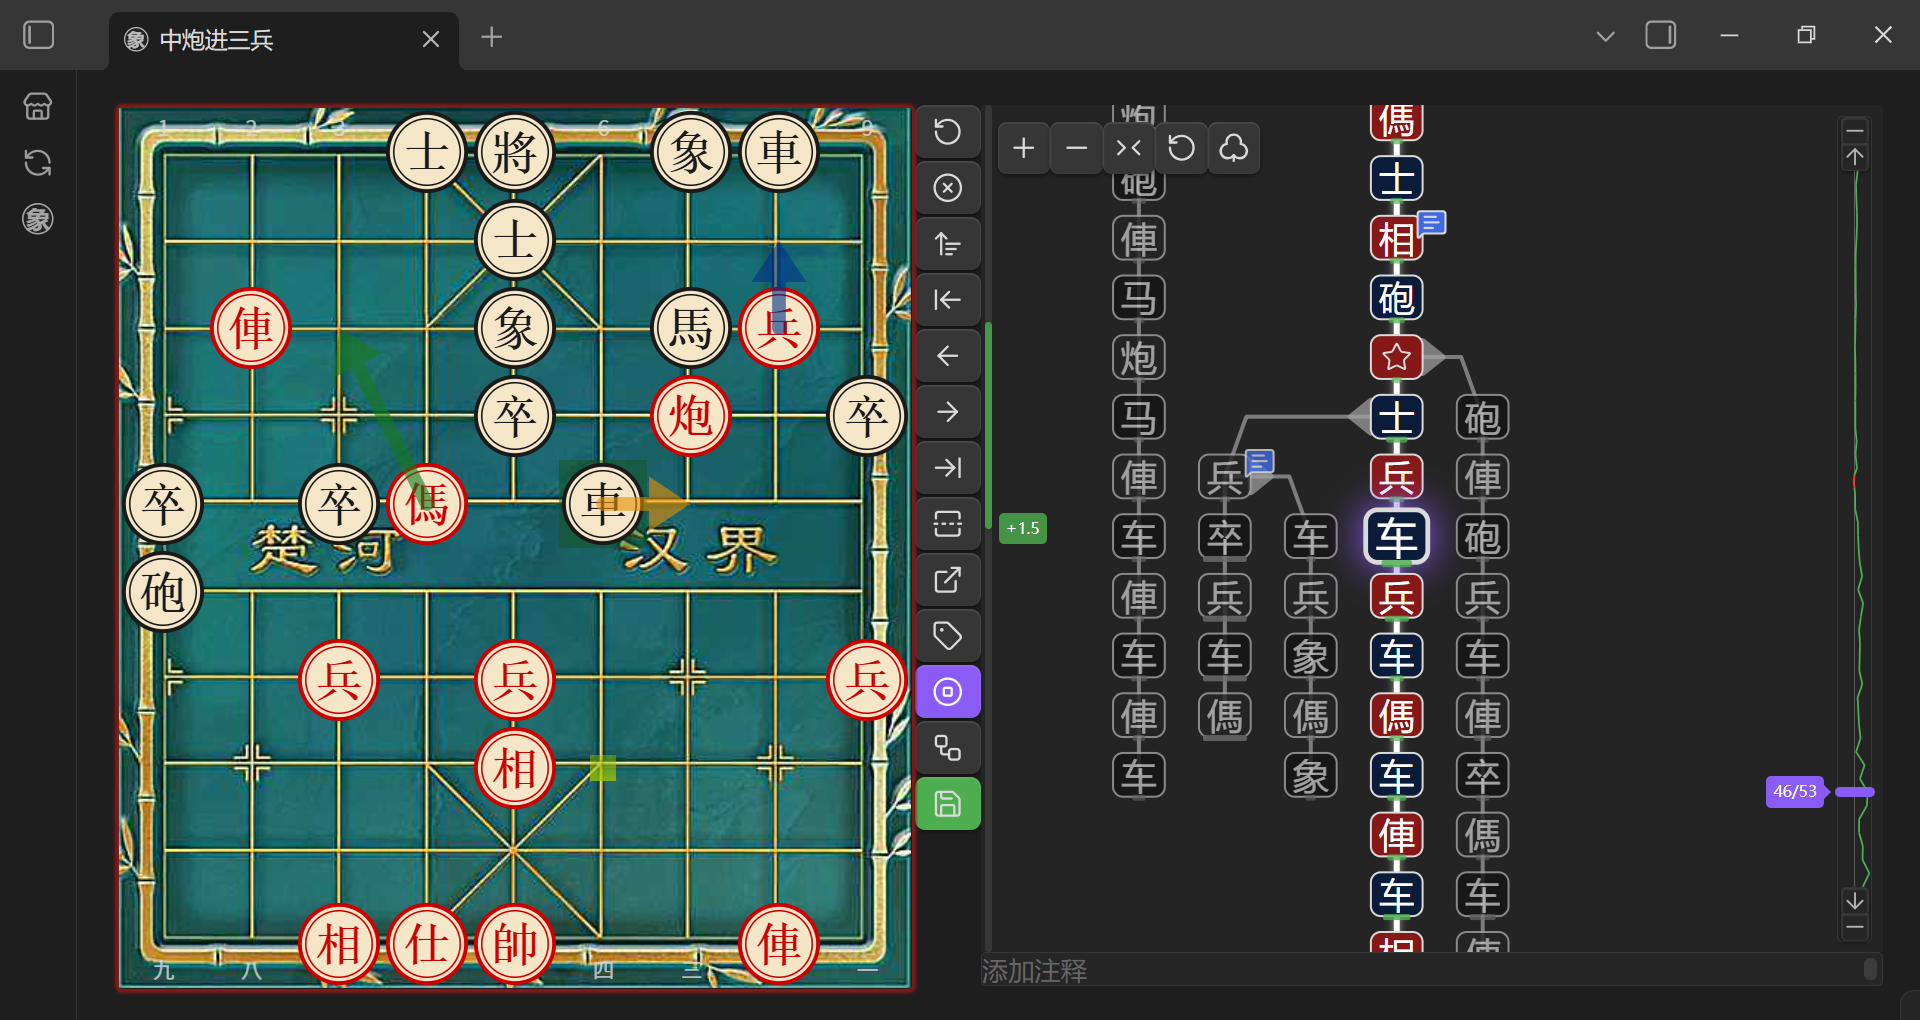
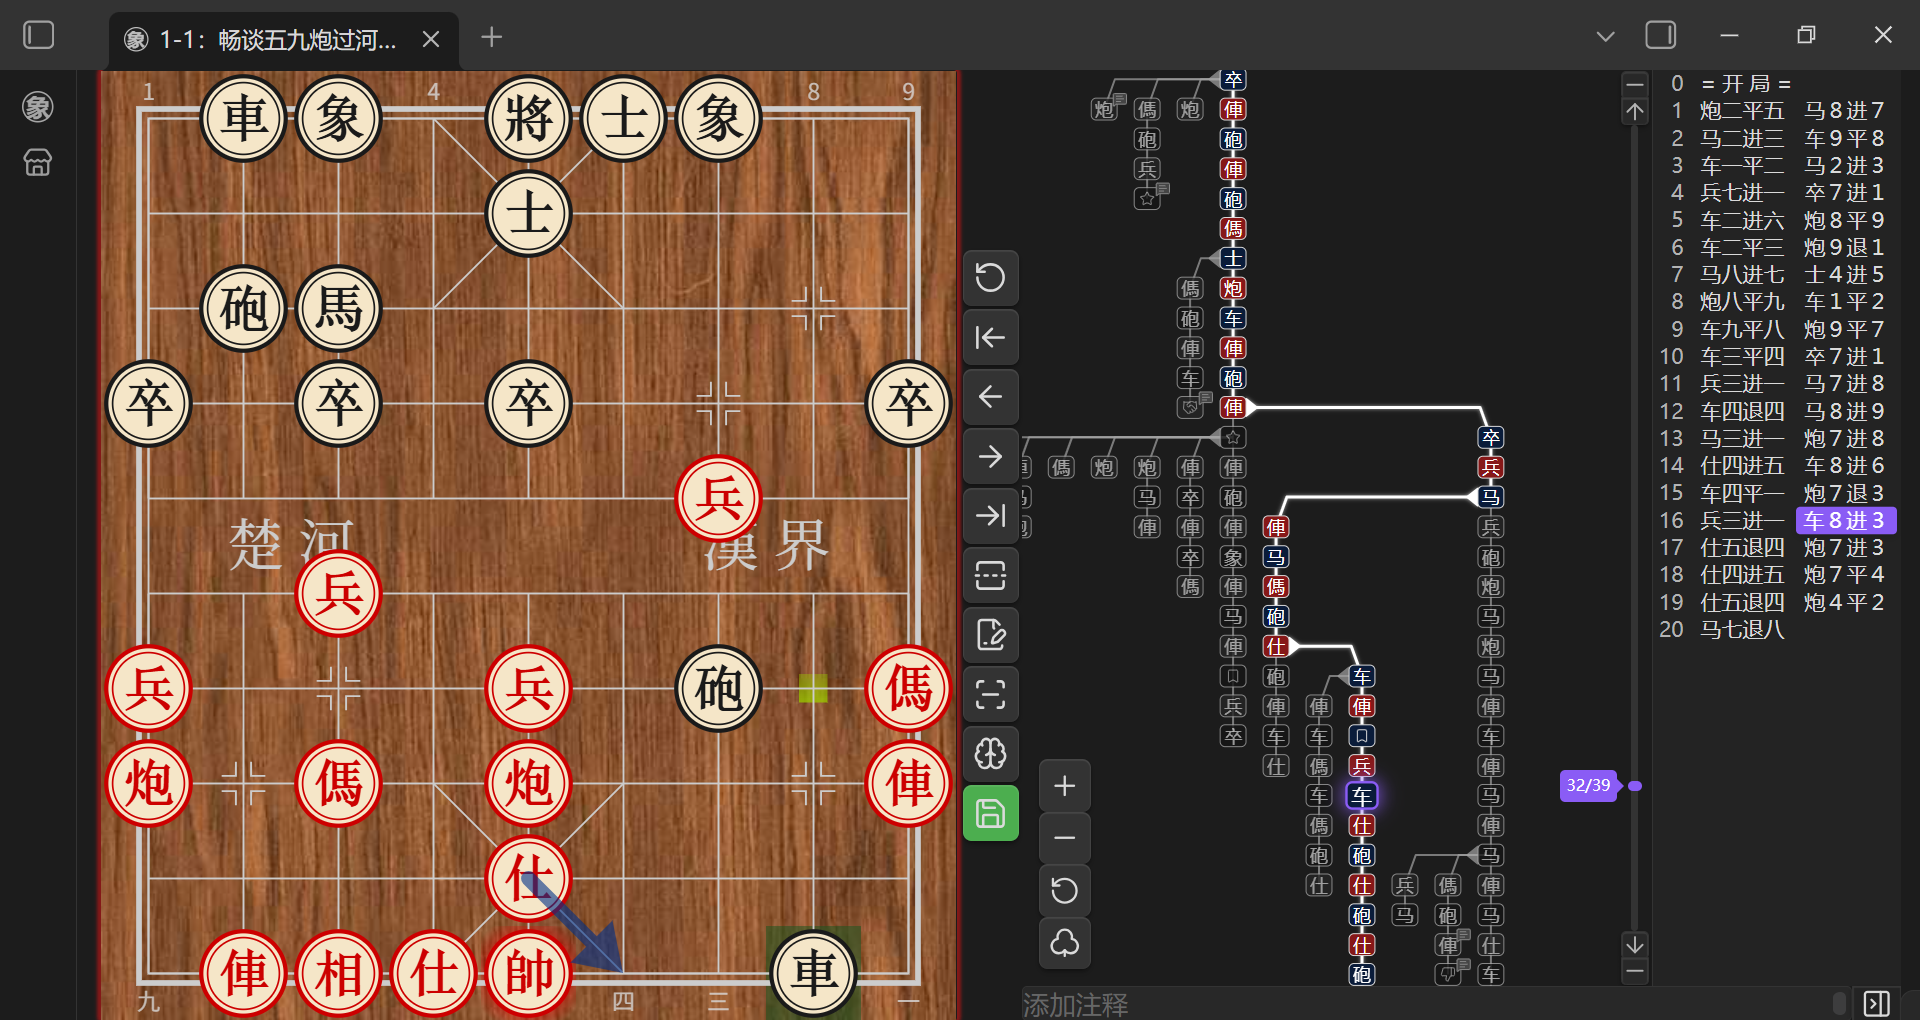
fix: sync chess-tree fixes - GenFEN toolbar btn-click payload, PGNView missing props, speech lang zh-CN

diff --git a/src/modules/Tree/PGNView.ts b/src/modules/Tree/PGNView.ts
@@ -38,10 +38,14 @@ const TreeViewModule = {
         props: {
           nodeMap: host.nodeMap,
           settings: host.settings,
-          fen: host.currentNode.fen,
+          fen: host.editing ? host.fen : (host.currentNode?.fen ?? ""),
           eventBus: host.eventBus,
           currentNode: host.currentNode,
           currentPath: host.currentPath,
+          options: host.options || {},
+          editing: host.editing,
+          selectedPiece: host.selectedPiece,
+          isFenMode: host.isFenMode,
         },
       });
     });
@@ -50,9 +54,14 @@ const TreeViewModule = {
       host.Chess?.$set?.({
         settings: { ...host.settings },
         nodeMap: new Map(host.nodeMap),
-        fen: host.currentNode?.fen ?? "",
+        fen: host.editing ? host.fen : (host.currentNode?.fen ?? ""),
+        eventBus: host.eventBus,
         currentNode: host.currentNode,
         currentPath: host.currentPath,
+        options: { ...host.options },
+        editing: host.editing,
+        selectedPiece: host.selectedPiece,
+        isFenMode: host.isFenMode,
       });
     });
 
@@ -62,10 +71,10 @@ const TreeViewModule = {
         case "never":
           break;
         case "always":
-          eventBus.emit("btn-click", "toEnd");
+          eventBus.emit("btn-click", { name: "toEnd" });
           break;
         case "auto":
-          if (!host.haveFEN) eventBus.emit("btn-click", "toEnd");
+          if (!host.haveFEN) eventBus.emit("btn-click", { name: "toEnd" });
           break;
       }
     });

diff --git a/src/modules/Tree/Speak.ts b/src/modules/Tree/Speak.ts
@@ -16,7 +16,7 @@ function speak(move: Move) {
 
   if (!window.speechSynthesis) return;
   const utter = new SpeechSynthesisUtterance(finalSpeech);
-  utter.lang = "en-US";
+  utter.lang = "zh-CN";
   window.speechSynthesis.cancel();
   window.speechSynthesis.speak(utter);
 }

diff --git a/src/lib/GenFEN/Toolbar.svelte b/src/lib/GenFEN/Toolbar.svelte
@@ -39,7 +39,7 @@
         if (action === "exit-edit") {
           eventBus.emit("exit-edit");
         } else {
-          eventBus.emit("btn-click", action);
+          eventBus.emit("btn-click", { name: action });
         }
       }}
     >
